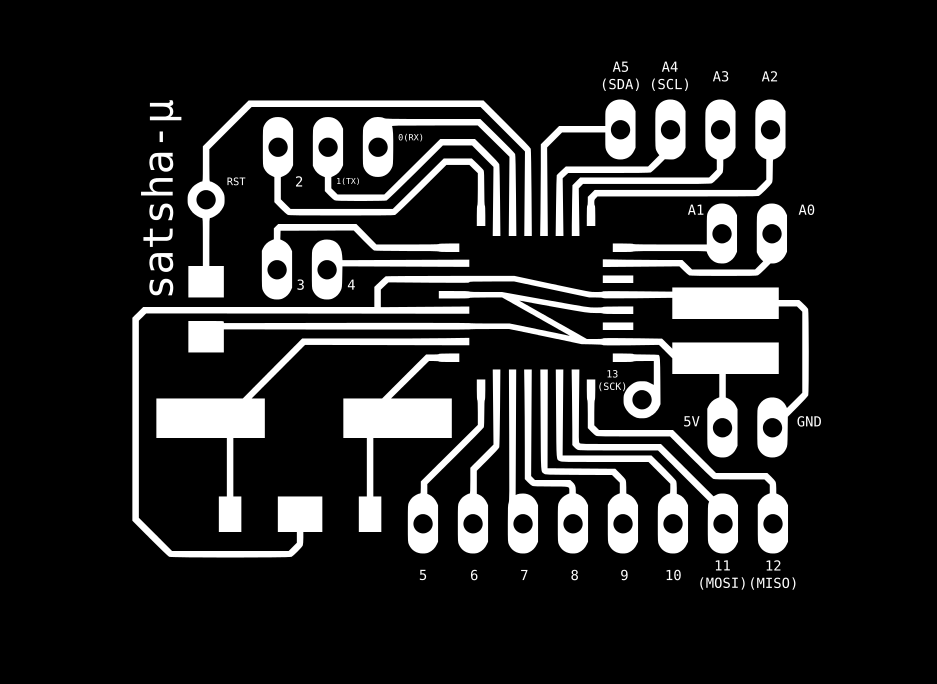
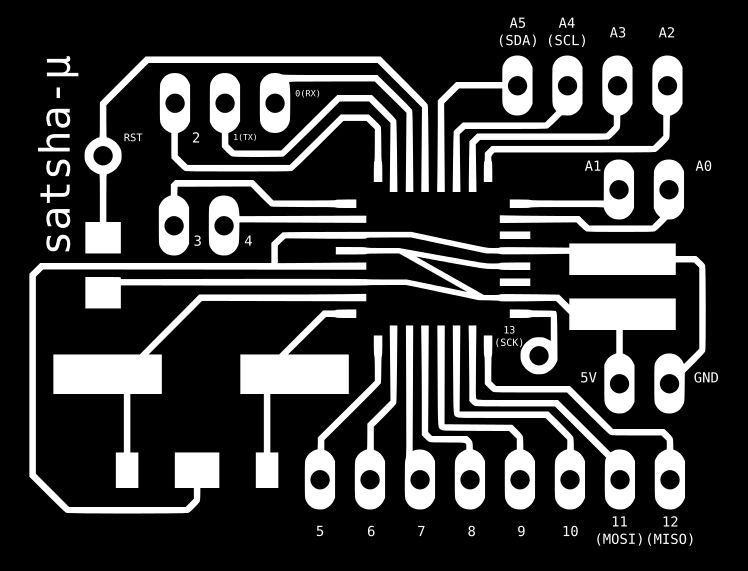
readme fixes

diff --git a/README.md b/README.md
@@ -7,12 +7,12 @@
 
 The story
 --
-Satshakit born during my **[FabAcademy2015](http://fabacademy.org/archives/2015/eu/students/ingrassia.daniele/index.html)**  as one the first test boards for my quadcopter final project. As some of my fellow students had difficulties with **[Fabkit](http://fabacademy.org/archives/2015/doc/projects/fabkit-0.4.html)**, they tried to make this prototype board. The board was very appreciated that now almost all my fellow students made it for their exercises, or use it as a **starting point for their final projects**. Thus I decided to do this release, if anyone wants to try it. Now, one year later, I am again in a FabLab developing new satshakit boards in my spare time.
+satshakit born during my **[FabAcademy2015](http://fabacademy.org/archives/2015/eu/students/ingrassia.daniele/index.html)**  as one the first test boards for my quadcopter final project. As some of my fellow students had difficulties with **[Fabkit](http://fabacademy.org/archives/2015/doc/projects/fabkit-0.4.html)**, they tried to make this prototype board. The board was very appreciated that now almost all my fellow students made it for their exercises, or use it as a **starting point for their final projects**. Thus I decided to do this release, if anyone wants to try it. Now, one year later, I am again in a FabLab developing new satshakit boards in my spare time.
 
 What is satshakit?
 --
 
-Satshakit is an **100% Arduino IDE  and libraries compatible**, fabbable board, and also an improved version of [Fabkit](http://fabacademy.org/archives/2015/doc/projects/fabkit-0.4.html). 
+satshakit is a **100% Arduino IDE  and libraries compatible**, fabbable and open source board, and also an improved version of [Fabkit](http://fabacademy.org/archives/2015/doc/projects/fabkit-0.4.html). 
 
 Main **improvements and features** over Fabkit are:
 
@@ -42,7 +42,7 @@ Here is a comparison table about different satshakit boards:
 satshakit laser and cnc
 --
 
-**satshakit laser** and **satshakit cnc** are the standard versions of the satshakit. They are actually the same board, showing some layout differences to improve the making process with a **fiber laser** cutter machine, or a little **cnc mill**. These satshakits are meant to be a general purpose board, having the full Arduino pinout plus ADC6/7, large space for easy soldering and two led onboard for power and pin 13.
+**satshakit laser** and **satshakit cnc** are the standard versions of the satshakit. They are actually the same board, showing some layout differences to improve the fabrication process using a **fiber laser** cutter machine, or a little **cnc mill**. These satshakits are meant to be a general purpose board, having the full Arduino pinout plus ADC6/7 pins, large space for easy soldering and two led onboard for power and pin 13.
 
 Here is the **satshakit laser board**:
 
@@ -50,7 +50,7 @@ Here is the **satshakit laser board**:
 
 <img src="media/satshakit_laser/satshakit_laser.png" width="70%">
 
-This is the **satshakit cnc board**:
+And this is the **satshakit cnc board**:
 
 <img src="media/satshakit_cnc/satshakit_cnc_board.jpg" width="70%">
 
@@ -116,7 +116,7 @@ alt="http://img.youtube.com/vi/9XcrL3Ypu_s/0.jpg" width="240" height="180" borde
 " target="_blank"><img src="http://img.youtube.com/vi/zIuTUFps1bE/0.jpg" 
 alt="http://img.youtube.com/vi/zIuTUFps1bE/0.jpg" width="240" height="180" border="10" /></a>
 
-satshakit car with sonars sensors ans Raspberry Pi:
+satshakit car with sonars sensors and Raspberry Pi:
 
 <a href="http://www.youtube.com/watch?feature=player_embedded&v=A0I6Nj6D2sE
 " target="_blank"><img src="http://img.youtube.com/vi/A0I6Nj6D2sE/0.jpg" 
@@ -132,13 +132,13 @@ alt="http://img.youtube.com/vi/0FD7bHNqlxU/0.jpg" width="240" height="180" borde
 satshakit micro
 --
 
-satshakit micro is a downsized version of the satshakit laser and cnc, developed to be used in **constrained space applications** like embedding the board in textiles or in small objects, or useful for who wants just a **bare metal board** to start with, also easy to be modified and/or customized. While satshakit micro is less than half the size of the other satshakits, it's a **full featured board** with the full Adruino pinout, missing only the possibility to be programmed using an FTDI cable.
+**satshakit micro** is a downsized version of the satshakit laser and cnc, developed to be used in **constrained space applications** like embedding the board in textiles or in small objects, or useful for who wants just a **bare metal board** to start with, also easy to be modified and/or customized. While satshakit micro is less than half the size of the other satshakits, it's a **full featured board** with the full Adruino pinout, missing only the possibility to be programmed using an FTDI cable.
 
 Here is the **satshakit micro board**:
 
 <img src="media/satshakit_micro/satshakit_micro_board.jpg" width="70%">
 
-<img src="https://raw.githubusercontent.com/satshas/satshakit/master/media/satshakit_micro/satshakit_micro_internal.png" width="70%">
+<img src="/media/satshakit_micro/satshakit_micro.png" width="70%">
 
 **downloads**
 
@@ -171,9 +171,11 @@ Here is the **satshakit multicore board**:
 
 <img src="media/satshakit_multicore/satshakit_multicore_board.jpeg" width="60%">
 
+<img src="media/satshakit_multicore/satshakit_multicore.png" width="60%">
 
 **downloads**
 
+- [satshakit multicore svg](https://raw.githubusercontent.com/satshas/satshakit/master/media/satshakit_multicore/satshakit_multicore.svg)
 - [satshakit multicore schematic](https://raw.githubusercontent.com/satshas/satshakit/master/eagle_projects/satshakit_multicore/satshakit_multicore.sch)
 - [satshakit multicore board](https://raw.githubusercontent.com/satshas/satshakit/master/eagle_projects/satshakit_multicore/satshakit_multicore.brd)
 
@@ -212,7 +214,7 @@ satshakit power board
 --
 <img src="media/satshakit_power_board/power_board.jpeg" width="60%">
 
-Due to the power requirements of a multicore satshakit system and to eventually provide power to **3.3V devices**, I also develop a simple power board. This power board can work with 7V-12V as input voltage, and give out 5V and 3.3V. I made this power board with the components I had available, obviously you can make this board only with SMD components.
+Due to the power requirements of a multicore satshakit system and to eventually provide power to **3.3V devices**, I have also developed a simple power board. This power board can work with 7V-12V as input voltage, and give out 5V and 3.3V. I made this power board with the components I had available, obviously you can make this board only with SMD components.
 
 Here is a picture of a soldered power board:
 
@@ -220,11 +222,8 @@ Here is a picture of a soldered power board:
 
 Getting Started
 --
-A satshakit board is **totally like an Arduino board**, thus is possible to use the Arduino IDE without any modification. When you finish solder satshakit, you're ready to program it.
-
-If you want to use satshakit as an Arduino, you first need to **upload Arduino bootloader**. This will also set the ATmega328P fuses as the same of an Arduino UNO.
- 
-To do this you need to use a **programmer**, for example another Arduino or FabISP. If you plan to program a satshakit with an Arduino, be sure to upload the **Arduino as ISP skecth** before connecting the satshakit to it.
+A satshakit board is **totally like an Arduino board**, thus is possible to use the Arduino IDE without any modification. When you finish solder satshakit, you're ready to program it. If you want to use satshakit as an Arduino, you first need to **upload Arduino bootloader**. This will also set the ATmega328P fuses as the same of an Arduino UNO.
+ To do this you need to use a **programmer**, for example another Arduino or FabISP. If you plan to program a satshakit with an Arduino, be sure to upload the **Arduino as ISP skecth** before connecting the satshakit to it.
 
 Here are the connection schemas to program **satshakit laser**, **satshakit cnc** or a **satshakit multicore** with an Arduino as ISP or with a FabISP:
 
